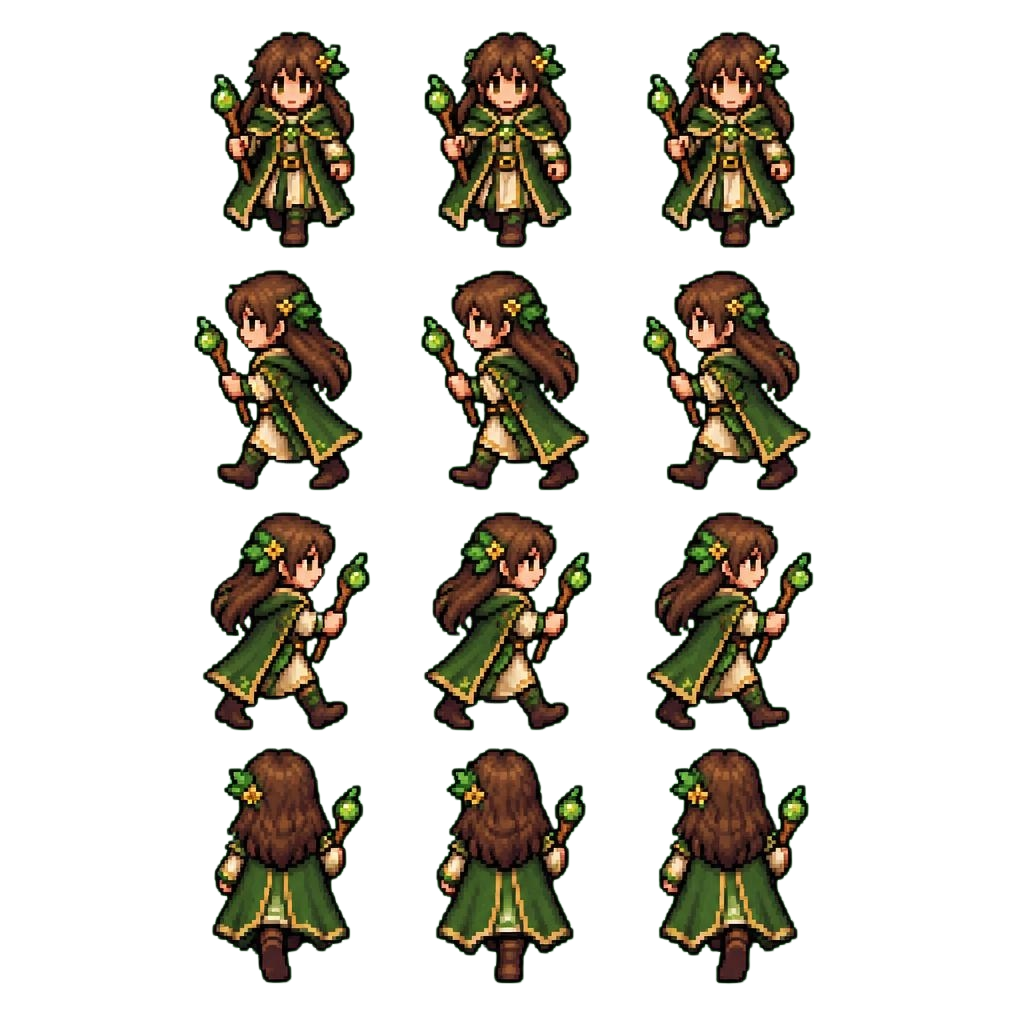
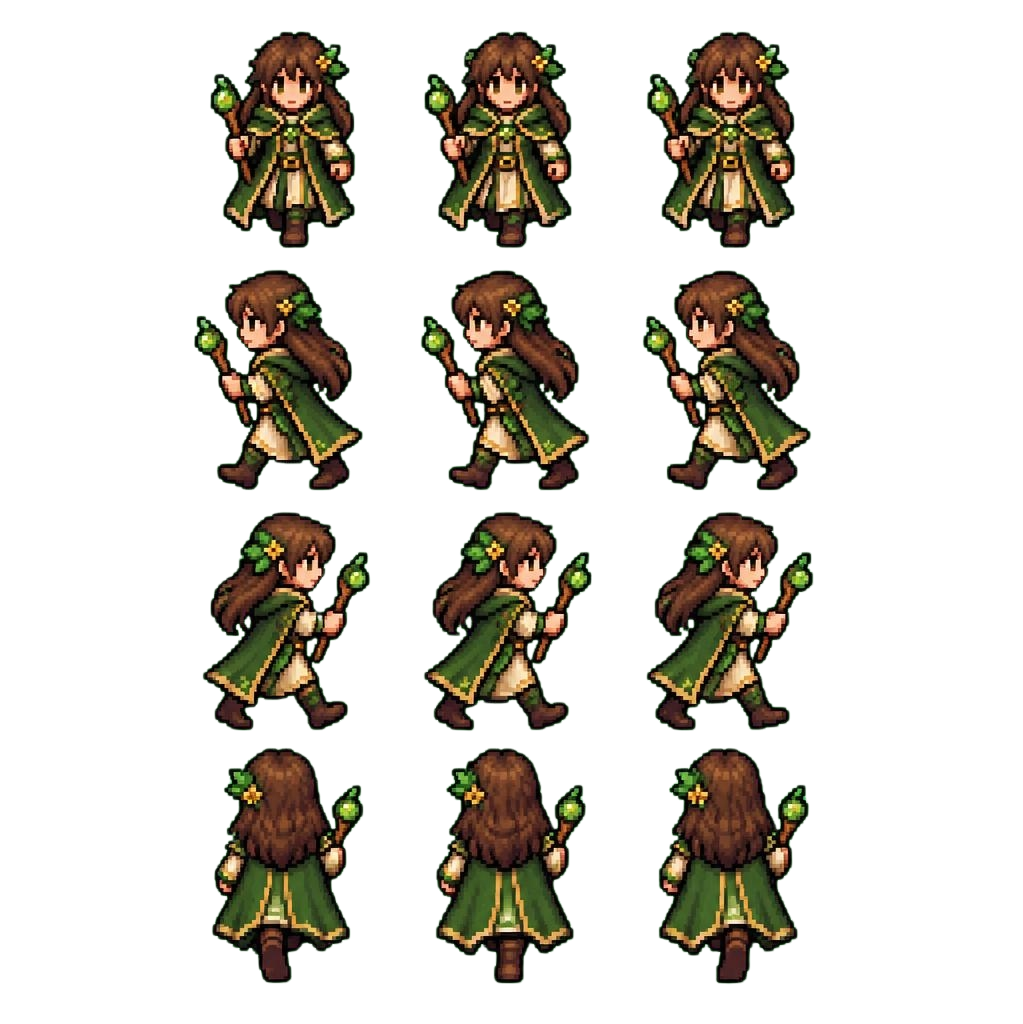
Atualizar sprites dos protagonistas e ajustar a lógica de centralização dos frames para melhor alinhamento visual

diff --git a/GAME/rpg-phaser/src/game/player.ts b/GAME/rpg-phaser/src/game/player.ts
@@ -17,10 +17,8 @@ export class Player {
   ) {
     this.sprite = scene.physics.add.sprite(x, y, character)
 
+    this.sprite.setOrigin(0.5, 0.5)
     this.sprite.setScale(0.28)
-    this.sprite.setSize(200, 220)
-    this.sprite.setOffset(28, 36)
-    this.sprite.setFrame(0)
 
     this.sprite.setCollideWorldBounds(true)
 
@@ -28,6 +26,7 @@ export class Player {
 
     this.character = character
 
+    this.setCenteredFrame(0)
     this.sprite.setVelocity(0, 0)
   }
 
@@ -35,28 +34,58 @@ export class Player {
     return this.character
   }
 
-  update(): void {
-    const movement = this.controls.getMovement()
-    if (movement.horizontal === 0 && movement.vertical === 0) {
-  this.sprite.setVelocity(0, 0)
+  private setCenteredFrame(frame: number): void {
+    const visualCenters: Record<number, { x: number; y: number }> = {
+      0: { x: 283.7, y: 137.8 },
+      1: { x: 173.9, y: 139.2 },
+      2: { x: 51.0, y: 141.4 },
+      3: { x: 282.8, y: 123.8 },
+      4: { x: 172.1, y: 129.8 },
+      5: { x: 53.7, y: 133.6 },
+      6: { x: 281.3, y: 123.2 },
+      7: { x: 167.8, y: 121.6 },
+      8: { x: 54.1, y: 115.0 },
+      9: { x: 283.2, y: 104.2 },
+      10: { x: 175.2, y: 103.8 },
+      11: { x: 53.3, y: 100.2 },
+    }
 
-  const idleFrames = {
-    down: 0,
-    right: 3,
-    left: 6,
-    up: 9,
+    const center = visualCenters[frame]
+
+    if (!center) {
+      this.sprite.setFrame(frame)
+      return
+    }
+
+    this.sprite.setFrame(frame)
+    this.sprite.setOrigin(center.x / 341, center.y / 256)
   }
 
-  this.sprite.setFrame(idleFrames[this.facing])
-  return
-}
+  update(): void {
+    const movement = this.controls.getMovement()
+
+    if (movement.horizontal === 0 && movement.vertical === 0) {
+      this.sprite.setVelocity(0, 0)
+
+      const idleFrames = {
+        down: 0,
+        right: 6,
+        left: 3,
+        up: 9,
+      }
+
+      this.setCenteredFrame(idleFrames[this.facing])
+      return
+    }
 
     const length = Math.hypot(movement.horizontal, movement.vertical)
-
     const horizontal = movement.horizontal / length
     const vertical = movement.vertical / length
 
-    this.sprite.setVelocity(horizontal * this.speed, vertical * this.speed)
+    this.sprite.setVelocity(
+      horizontal * this.speed,
+      vertical * this.speed,
+    )
 
     if (Math.abs(horizontal) > Math.abs(vertical)) {
       this.facing = horizontal > 0 ? "right" : "left"
@@ -64,28 +93,17 @@ export class Player {
       this.facing = vertical > 0 ? "down" : "up"
     }
 
-    const idleFrames = {
-      down: 0,
-      right: 6,
-      left: 3,
-      up: 9,
-    }
-
-    this.sprite.setFrame(idleFrames[this.facing])
-
     const walkingFrames = {
       down: [0, 1, 2],
-      left: [3, 4, 5],
       right: [6, 7, 8],
+      left: [3, 4, 5],
       up: [9, 10, 11],
     }
 
-    const frame =
-      walkingFrames[this.facing][
-        Math.floor(this.sprite.scene.time.now / 150) % 3
-      ]
+    const frameIndex =
+      Math.floor(this.sprite.scene.time.now / 150) % 3
 
-    this.sprite.setFrame(frame)
+    this.setCenteredFrame(walkingFrames[this.facing][frameIndex])
   }
 
   getFacing(): "up" | "down" | "left" | "right" {
@@ -95,6 +113,6 @@ export class Player {
   setCharacter(character: PlayerCharacter): void {
     this.character = character
     this.sprite.setTexture(character)
-    this.sprite.setFrame(0)
+    this.setCenteredFrame(0)
   }
 }

diff --git a/GAME/rpg-phaser/src/game/companion.ts b/GAME/rpg-phaser/src/game/companion.ts
@@ -17,13 +17,36 @@ export class Companion {
     this.textureKey = textureKey
     this.side = side
     this.sprite = scene.physics.add.sprite(x, y, this.textureKey)
+    this.sprite.setOrigin(0.5, 0.5)
     this.sprite.setScale(0.28)
-    this.sprite.setSize(200, 220)
-    this.sprite.setOffset(28, 36)
-    this.sprite.setFrame(0)
     this.sprite.setCollideWorldBounds(true)
 
+    this.setCenteredFrame(0)
     this.sprite.setVelocity(0, 0)
+  }
+
+  private setCenteredFrame(frame: number): void {
+    const visualCenters: Record<number, { x: number; y: number }> = {
+      0: { x: 283.7, y: 137.8 },
+      1: { x: 173.9, y: 139.2 },
+      2: { x: 51.0, y: 141.4 },
+      3: { x: 282.8, y: 123.8 },
+      4: { x: 172.1, y: 129.8 },
+      5: { x: 53.7, y: 133.6 },
+      6: { x: 281.3, y: 123.2 },
+      7: { x: 167.8, y: 121.6 },
+      8: { x: 54.1, y: 115.0 },
+      9: { x: 283.2, y: 104.2 },
+      10: { x: 175.2, y: 103.8 },
+      11: { x: 53.3, y: 100.2 },
+    }
+
+    const center = visualCenters[frame]
+    this.sprite.setFrame(frame)
+
+    if (center) {
+      this.sprite.setOrigin(center.x / 341, center.y / 256)
+    }
   }
 
   update(target: Phaser.Physics.Arcade.Sprite): void {
@@ -51,10 +74,19 @@ export class Companion {
       (distanceY / distance) * this.followSpeed,
     )
 
+    const frameIndex =
+      Math.floor(this.sprite.scene.time.now / 150) % 3
+
     if (Math.abs(distanceX) > Math.abs(distanceY)) {
-      this.sprite.setFrame(distanceX > 0 ? 3 : 6)
+      const frames = distanceX > 0
+        ? [3, 4, 5]
+        : [6, 7, 8]
+      this.setCenteredFrame(frames[frameIndex])
     } else {
-      this.sprite.setFrame(distanceY > 0 ? 0 : 9)
+      const frames = distanceY > 0
+        ? [0, 1, 2]
+        : [9, 10, 11]
+      this.setCenteredFrame(frames[frameIndex])
     }
   }
 }

diff --git a/GAME/rpg-phaser/src/game/game.ts b/GAME/rpg-phaser/src/game/game.ts
@@ -200,6 +200,11 @@ export class GameScene extends Scene {
       return
     }
 
+    this.companions.forEach((companion) => {
+      companion.sprite.destroy()
+    })
+    this.companions = []
+
     this.partyCharacter = activeCharacter
 
     const party: Array<"kael" | "rian" | "lira"> = ["kael", "rian", "lira"]

diff --git a/GAME/rpg-phaser/src/game/slime.ts b/GAME/rpg-phaser/src/game/slime.ts
@@ -9,9 +9,8 @@ export class Slime {
 
     this.sprite.setCollideWorldBounds(true)
 
+    this.sprite.setOrigin(0.5, 0.5)
     this.sprite.setScale(0.30)
-    this.sprite.setSize(300, 220)
-    this.sprite.setOffset(46, 96)
     this.sprite.setVelocity(0, 0)
   }
 
